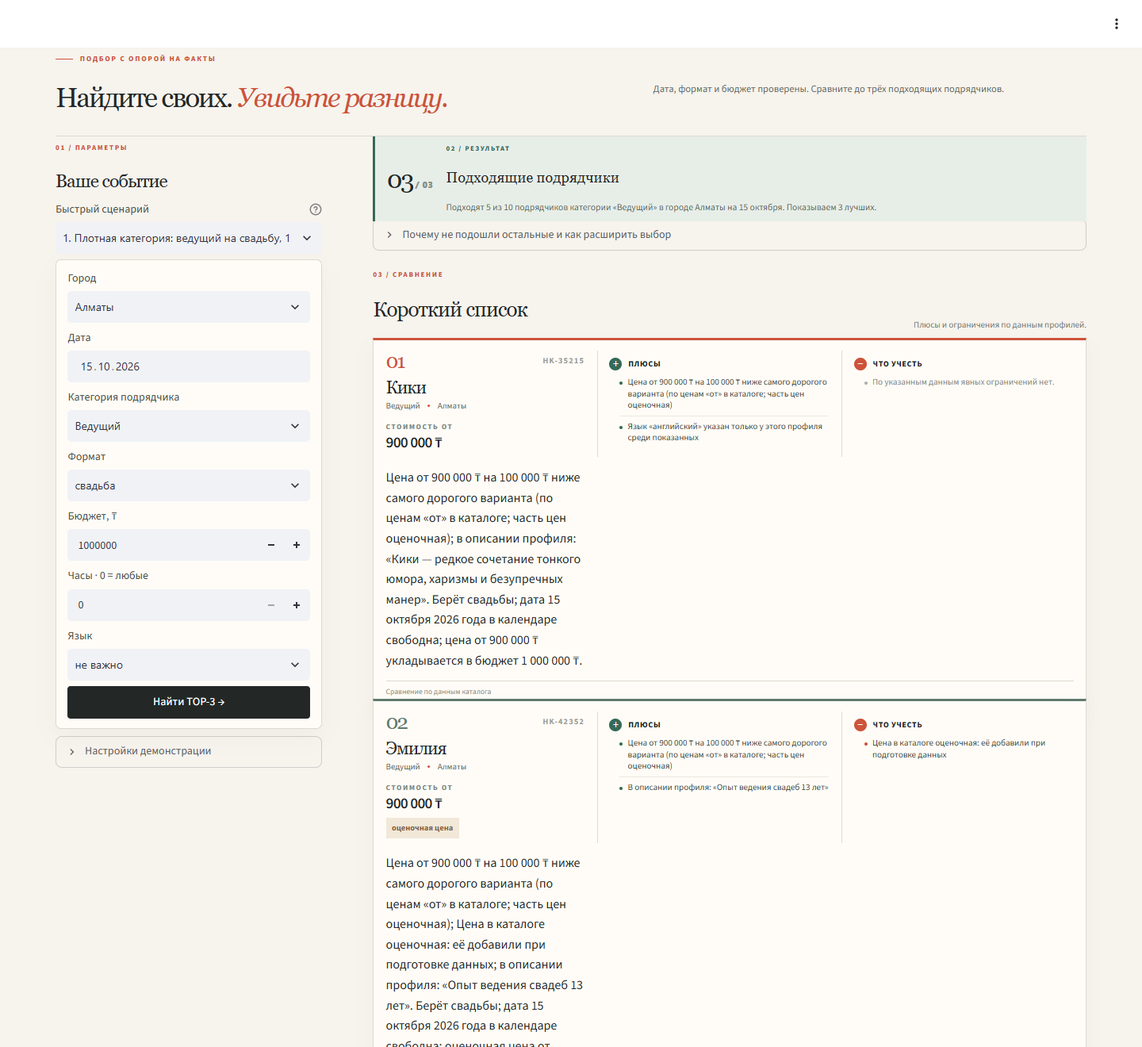
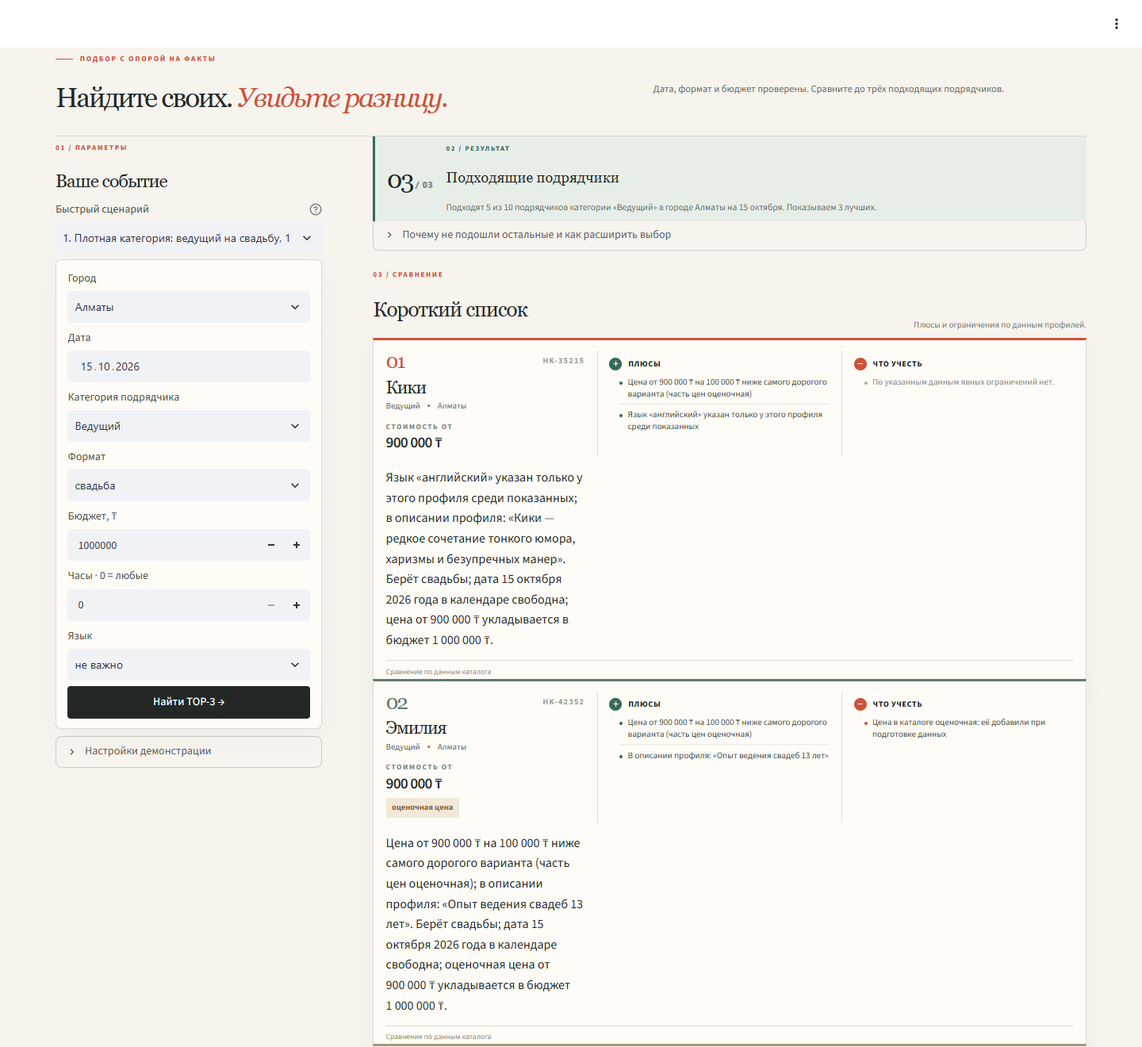
fix: distinguishable reasons on the whole catalog, safer LLM setup
- near-duplicate profiles (template descriptions) get a quote unique among
  the shown cards; reasons lead with the rarest advantage, limitations stay
  in the 'Что учесть' column; no capital letter after ';', no repeated format
- shorter price note; temperature=0 for the comparison call
- tests never reach the real API even with a key in the shell; new tests
  check distinguishability on the whole catalog (29 tests)
- key can live in git-ignored .streamlit/secrets.toml; README explains how
  to run with the model and how to see that it works

Changed region(s): [[0.3125, 0.4348, 0.9688, 1.0], [0.5312, 0.3727, 0.7188, 0.4348], [0.75, 0.6523, 0.9062, 0.7455]]

diff --git a/comparison.py b/comparison.py
@@ -7,10 +7,12 @@ import os
 from typing import Any, Callable
 from urllib.request import Request, urlopen
 
-from matching import _key, _money
+from matching import _key, _money, profile_excerpts
 
 ComparisonSelector = Callable[[dict[str, Any]], list[dict[str, Any]]]
 QUALITY_IDS = {"price_estimated", "city_imputed", "synthetic"}
+# Which advantage leads the reason: the rarest difference first.
+HIGHLIGHT_ORDER = ("language_", "price_lowest", "hours_longest", "price_lower", "profile")
 
 
 def _point(point_id: str, text: str) -> dict[str, str]:
@@ -32,13 +34,34 @@ def _quality_notes(card: dict[str, Any]) -> list[dict[str, str]]:
     return notes
 
 
+def _distinct_profiles(shown: list[dict[str, Any]]) -> list[dict[str, Any]]:
+    """Near-duplicate profiles (same template description) must not get the same quote.
+
+    If a card's quote repeats another card's, take the first sentence of its own
+    description that does not occur in the other shown descriptions.
+    """
+    quotes = [_fact(card, "profile") for card in shown]
+    result = []
+    for card, quote in zip(shown, quotes):
+        if quote and quotes.count(quote) > 1:
+            others = " ".join(" ".join(str(o.get("description", "")).split()) for o in shown if o is not card)
+            unique = next((q for q in profile_excerpts(str(card.get("description", ""))) if q not in others), None)
+            if unique:
+                card = {**card, "facts": [
+                    {**fact, "text": f"В описании профиля: «{unique}»"} if fact["id"] == "profile" else fact
+                    for fact in card["facts"]
+                ]}
+        result.append(card)
+    return result
+
+
 def _comparison(card: dict[str, Any], shown: list[dict[str, Any]]) -> dict[str, list[dict[str, str]]]:
     pros: list[dict[str, str]] = []
     cons: list[dict[str, str]] = []
     price = card["price_from_kzt"]
     prices = [other["price_from_kzt"] for other in shown]
     cheapest, most_expensive = min(prices), max(prices)
-    price_note = " (по ценам «от» в каталоге; часть цен оценочная)" if any(
+    price_note = " (часть цен оценочная)" if any(
         other.get("price_imputed") for other in shown
     ) else ""
 
@@ -130,6 +153,8 @@ def openai_compare(payload: dict[str, Any]) -> list[dict[str, Any]]:
         }},
         "max_output_tokens": 350,
     }
+    if body["model"].startswith(("gpt-4", "gpt-3")):
+        body["temperature"] = 0  # same request -> same choice; reasoning models reject this field
     request = Request(
         "https://api.openai.com/v1/responses",
         data=json.dumps(body, ensure_ascii=False).encode("utf-8"),
@@ -159,6 +184,7 @@ def add_comparative_facts(
         return {**response, "results": [{**card, "comparison": {"pros": pros, "cons": _quality_notes(card)},
                                           "comparison_source": "catalog"}]}
 
+    shown = _distinct_profiles(shown)
     options = {card["id"]: _comparison(card, shown) for card in shown}
     selected = {
         card_id: {
@@ -196,8 +222,13 @@ def add_comparative_facts(
     for card in shown:
         comparison = selected[card["id"]]
         facts = list(card["facts"])
-        highlighted = comparison["pros"][:1] + comparison["cons"][:1]
+        # The reason says why the card is here: its main advantage. Limitations stay in
+        # the "Что учесть" column. The format is already part of the shared checks.
+        pros = sorted((point for point in comparison["pros"] if point["id"] != "format"),
+                      key=lambda point: next((i for i, prefix in enumerate(HIGHLIGHT_ORDER)
+                                              if point["id"].startswith(prefix)), len(HIGHLIGHT_ORDER)))
+        highlighted = (pros or comparison["cons"])[:1]
         if highlighted:
-            facts.append(_point("compare", "; ".join(point["text"] for point in highlighted)))
+            facts.append(_point("compare", highlighted[0]["text"]))
         results.append({**card, "comparison": comparison, "comparison_source": source, "facts": facts})
     return {**response, "results": results}

diff --git a/test_integration.py b/test_integration.py
@@ -1,5 +1,6 @@
 """End-to-end checks of the Definition of Done on the real catalog. Run: python -m unittest"""
 
+import os
 import re
 import unittest
 from unittest.mock import patch
@@ -7,6 +8,9 @@ from unittest.mock import patch
 from demo_scenarios import SCENARIOS
 from matching import load_providers
 from service import run
+
+# Tests never call the real API, even when the shell has a key set.
+os.environ.pop("OPENAI_API_KEY", None)
 
 CATALOG = {row["id"]: row for row in load_providers()}
 GENERIC_PHRASES = ("отличный выбор", "идеально подойдёт", "лучший выбор", "для вашего мероприятия")
@@ -119,6 +123,32 @@ class DefinitionOfDoneTests(unittest.TestCase):
     def test_response_time(self):
         for scenario in SCENARIOS.values():
             self.assertLess(run(scenario["request"])["elapsed_ms"], 10_000)
+
+    def test_near_duplicate_profiles_get_different_quotes(self):
+        # Two live bands share price, formats and the first sentence of their descriptions.
+        request = {"city": "Алматы", "date": "2026-10-14", "event_format": "свадьба",
+                   "category": "Лайв-бэнд", "budget_kzt": 1_500_000}
+        cards = run(request)["results"]
+        quotes = [re.findall(r"«[^»]{24,}»", card["reason"]) for card in cards]
+        self.assertEqual(len({tuple(q) for q in quotes}), len(cards))
+
+    def test_every_answer_is_distinguishable_and_readable(self):
+        """DoD on the whole catalog, not only on demo requests."""
+        cities = sorted({row["city"] for row in CATALOG.values()})
+        categories = sorted({c for row in CATALOG.values() for c in row["categories"]})
+        dates = ["2026-09-26", "2026-10-14", "2026-11-14", "2026-12-06"]
+        for city in cities:
+            for category in categories:
+                for event_format in ("свадьба", "той", "корпоратив", "юбилей"):
+                    for day in dates:
+                        request = {"city": city, "date": day, "event_format": event_format,
+                                   "category": category, "budget_kzt": 10_000_000}
+                        cards = run(request)["results"]
+                        with self.subTest(**request):
+                            anonymous = [c["reason"].replace(c["name"], "___") for c in cards]
+                            self.assertEqual(len(set(anonymous)), len(anonymous))
+                            for reason in anonymous:
+                                self.assertIsNone(re.search(r"; [А-ЯЁ]", reason))
 
 
 if __name__ == "__main__":

diff --git a/matching.py b/matching.py
@@ -67,20 +67,29 @@ def _display_date(value: date) -> str:
     return f"{_display_day(value)} {value.year} года"
 
 
-def _profile_excerpt(description: str) -> str:
-    """Return a short exact quote from the profile, without inventing claims."""
+def profile_excerpts(description: str) -> list[str]:
+    """All short exact quotes from the profile, in reading order, without inventing claims."""
     clean = re.sub(r"\s+", " ", description).strip()
+    found: list[str] = []
     for part in re.split(r"(?<=[.!?])\s+", clean):
         part = part.strip(" •\"«»")
         if 24 <= len(part) <= 160:
-            return part.rstrip(".!?")
+            found.append(part.rstrip(".!?"))
     # Some catalog descriptions have no sentence punctuation at all ("…13 лет Вел свадьбы…"):
     # treat "lowercase/digit + space + Capitalized word" as a sentence boundary.
     for part in re.split(r"(?<=[а-яёa-z0-9])\s+(?=[А-ЯЁA-Z][а-яёa-z])", clean):
-        part = part.strip(" •\"«»-—")
-        if 24 <= len(part) <= 160:
-            return part.rstrip(".!?,;:")
-    return clean[:140].rsplit(" ", 1)[0].rstrip(".,;: ") if len(clean) >= 24 else ""
+        part = part.strip(" •\"«»-—").rstrip(".!?,;:")
+        if 24 <= len(part) <= 160 and not any(part in quote or quote in part for quote in found):
+            found.append(part)
+    if not found and len(clean) >= 24:
+        found.append(clean[:140].rsplit(" ", 1)[0].rstrip(".,;: "))
+    return found
+
+
+def _profile_excerpt(description: str) -> str:
+    """Return the first short exact quote from the profile."""
+    excerpts = profile_excerpts(description)
+    return excerpts[0] if excerpts else ""
 
 
 def load_providers(path: str | Path = DATA_PATH) -> list[dict[str, Any]]:

diff --git a/app.py b/app.py
@@ -197,11 +197,24 @@ def render_card(card: dict, debug: bool, rank: int) -> None:
                 st.markdown(f"{mark} {fact['text']}")
 
 
+def use_key_from_secrets() -> None:
+    """Allow the key in .streamlit/secrets.toml (git-ignored) instead of a shell variable."""
+    if os.getenv("OPENAI_API_KEY"):
+        return
+    try:
+        key = st.secrets.get("OPENAI_API_KEY", "")
+    except Exception:  # no secrets file: run without the model
+        return
+    if key:
+        os.environ["OPENAI_API_KEY"] = str(key)
+
+
 def main() -> None:
     st.set_page_config(
         page_title="ASA | подбор подрядчиков", page_icon="✦", layout="wide",
         initial_sidebar_state="collapsed",
     )
+    use_key_from_secrets()
     css = Path(__file__).with_name("styles.css").read_text(encoding="utf-8")
     st.markdown(f"<style>{css}</style>", unsafe_allow_html=True)
     st.markdown("""

diff --git a/test.py b/test.py
@@ -1,6 +1,7 @@
 """Behavior checks for matching and grounded explanations."""
 
 import json
+import os
 import tempfile
 import unittest
 from io import BytesIO
@@ -10,6 +11,9 @@ from unittest.mock import patch
 from comparison import add_comparative_facts, openai_compare
 from explanations import explain_response, generate_reason
 from matching import load_providers, recommend
+
+# Tests never call the real API, even when the shell has a key set.
+os.environ.pop("OPENAI_API_KEY", None)
 
 
 BASE = {

diff --git a/README.md b/README.md
@@ -2,7 +2,7 @@
 
 ![Python](https://img.shields.io/badge/Python-3.10%2B-3776AB?logo=python&logoColor=white)
 ![Streamlit](https://img.shields.io/badge/UI-Streamlit-FF4B4B?logo=streamlit&logoColor=white)
-![Tests](https://img.shields.io/badge/tests-27%20passed-2EA44F)
+![Tests](https://img.shields.io/badge/tests-29%20passed-2EA44F)
 ![HackAlem](https://img.shields.io/badge/HackAlem-%2379--lite-6F42C1)
 
 Заказчик уже выбрал тип мероприятия и получил каталог по своему городу. ASA помогает **выбрать из этого списка**, а не удлинить его: проверяет дату, формат и бюджет, оставляет до трёх подрядчиков и для каждого показывает **плюсы и ограничения по сравнению с остальными**. Если подходящих мало или нет совсем, сервис объясняет почему и подсказывает, что изменить в запросе.
@@ -41,7 +41,7 @@ python -m streamlit run app.py
 |---|---|
 | `python -m streamlit run app.py` | веб-интерфейс |
 | `python demo.py` | все демо-сценарии и имитация сбоя ИИ в терминале |
-| `python -m unittest` | 27 тестов: подбор, сравнение, объяснения и сквозные проверки DoD |
+| `python -m unittest` | 29 тестов: подбор, сравнение, объяснения и сквозные проверки DoD на всём каталоге |
 
 Ядро (`matching.py`, `comparison.py`, `explanations.py`, `service.py`) работает на стандартной библиотеке Python, без внешних зависимостей. Streamlit нужен только для интерфейса, оформление лежит в `styles.css`.
 
@@ -66,7 +66,7 @@ flowchart LR
 | **2. Фильтры** | `matching.py` | Кандидат исключается, если занят на дату, его цена «от» выше бюджета, он не берёт этот формат или работает на площадке меньше запрошенного. Для каждого отсеянного запоминается, какие именно условия он не прошёл: из этого строятся подсказки. |
 | **3. Ранжирование** | `matching.py` | Прошедшие фильтры получают баллы (таблица ниже). При равенстве сортировка идёт по `id`, поэтому одинаковый запрос всегда даёт одинаковый порядок. |
 | **4. Сравнение** | `comparison.py` | Для каждой карточки из данных каталога собираются плюсы и ограничения **относительно других карточек выдачи**. ИИ, если подключён, выбирает, какие из них показать. |
-| **5. Объяснение** | `explanations.py` | Короткий текст из тех же проверенных фактов: главное отличие, формат, свободная дата, цена в рамках бюджета, цитата из профиля. |
+| **5. Объяснение** | `explanations.py` | Два предложения из тех же проверенных фактов. Первое — главный плюс карточки и цитата из профиля, второе — общие проверки: формат, свободная дата, цена в рамках бюджета. |
 
 ### Как считаются баллы
 
@@ -87,7 +87,7 @@ flowchart LR
 
 | Пункт | Тип | Пример | Откуда |
 |---|:---:|---|---|
-| Самая низкая цена | плюс | «Самая низкая цена среди показанных: от 400 000 ₸» | `price_from_kzt` всех карточек |
+| Самая низкая цена | плюс | «Самая низкая цена среди показанных: от 400 000 ₸ (часть цен оценочная)» | `price_from_kzt` всех карточек |
 | Цена ниже самой дорогой | плюс | «Цена от 900 000 ₸ на 100 000 ₸ ниже самого дорогого варианта» | `price_from_kzt` |
 | Цена выше минимальной | ограничение | «Цена от 1 000 000 ₸ на 100 000 ₸ выше минимальной среди показанных» | `price_from_kzt` |
 | Уникальный язык | плюс | «Язык «английский» указан только у этого профиля среди показанных» | `languages` |
@@ -95,6 +95,10 @@ flowchart LR
 | Лимит меньше максимума | ограничение | «Лимит 10 ч на 2 ч меньше максимума среди показанных с лимитом» | `max_hours` |
 | Цитата из профиля | плюс | «В описании профиля: «…более 1000 реализованных съёмок»» | `description`, дословно |
 | Качество данных | ограничение | «Цена в каталоге оценочная», «Профиль создан для демонстрации» | `price_imputed`, `city_imputed`, `synthetic` |
+
+Первым в объяснение попадает самый редкий плюс: уникальный язык → самая низкая цена → самый длинный лимит часов → цена ниже самой дорогой → цитата. Ограничения остаются в колонке «Что учесть».
+
+Если у двух подрядчиков описания начинаются одинаково (в каталоге есть почти одинаковые лайв-бэнды), для каждого берётся первая фраза описания, которой нет у другого. Так объяснения не совпадают даже у «клонов».
 
 Пометки о качестве данных показываются всегда: ИИ не может их скрыть. Если в выдаче одна карточка, сравнивать не с кем, и в плюсах показываются подтверждённые проверки: формат, свободная дата, бюджет.
 
@@ -151,14 +155,26 @@ flowchart LR
 | Таймаут (6 с), ошибка API, битый JSON, неизвестный `id`, пропущенная карточка | та же выдача с локальным сравнением, поиск не ломается | «Сравнение по данным каталога» |
 | В выдаче одна карточка | ИИ не вызывается, сравнивать не с кем | «Единственный подходящий вариант» |
 
-Подключение:
+### Как запустить с ИИ
+
+**Вариант 1 — на один запуск.** В том же окне PowerShell, где будете запускать приложение:
 
 ```powershell
-$env:OPENAI_API_KEY = "ваш_ключ"
+$env:OPENAI_API_KEY = "sk-..."
 python -m streamlit run app.py
 ```
 
-Модель задаётся через `OPENAI_MODEL` (по умолчанию `gpt-4o-mini`), используется OpenAI Responses API со строгой JSON-схемой. Ключ хранится только в переменной окружения, в коде и репозитории его нет.
+**Вариант 2 — один раз для этой папки.** Создайте файл `.streamlit/secrets.toml`:
+
+```toml
+OPENAI_API_KEY = "sk-..."
+```
+
+Файл указан в `.gitignore` и не попадёт в репозиторий. Приложение подхватит ключ при запуске.
+
+**Как понять, что ИИ работает:** в раскрывающемся блоке «Настройки демонстрации» написано «ИИ сравнит варианты одним запросом», а под карточками — «ИИ сравнил варианты · по проверенным фактам». В терминале: `python demo.py` выводит у карточек `сравнение: llm`.
+
+Модель задаётся через `OPENAI_MODEL` (по умолчанию `gpt-4o-mini`). Используется OpenAI Responses API со строгой JSON-схемой и `temperature=0`, чтобы одинаковый запрос давал одинаковый выбор. Тесты никогда не обращаются к настоящему API, даже если ключ задан в терминале.
 
 ## Проверка Definition of Done
 
@@ -176,6 +192,8 @@ python -m streamlit run app.py
 | Сбой ИИ не ломает выдачу | `test_llm_outage_falls_back_without_losing_reasons`, `test_valid_model_selection_and_invalid_fallback` |
 | Цитаты взяты из профиля дословно | `test_reason_quotes_come_from_profile` |
 | Некорректный запрос и пустой каталог | `test_request_validation`, `test_empty_csv_and_missing_fields` |
+| Все ответы на всём каталоге различимы и читаемы | `test_every_answer_is_distinguishable_and_readable`: все города × категории × 4 формата × 4 даты |
+| Почти одинаковые профили получают разные цитаты | `test_near_duplicate_profiles_get_different_quotes` |
 
 ## Структура проекта
 
@@ -240,7 +258,7 @@ response = run({
       "score_parts": {"specialization": 10, "description": 10, "language": 0, "duration": 0},
       "comparison": {
         "pros": [
-          {"id": "price_lowest", "text": "Самая низкая цена среди показанных: от 400 000 ₸ (по ценам «от» в каталоге; часть цен оценочная)"},
+          {"id": "price_lowest", "text": "Самая низкая цена среди показанных: от 400 000 ₸ (часть цен оценочная)"},
           {"id": "profile", "text": "В описании профиля: «Тохру — ивент-фотограф с более чем 10-летним опытом и более 1000 реализованных съёмок»"}
         ],
         "cons": [
@@ -249,7 +267,7 @@ response = run({
         ]
       },
       "comparison_source": "fallback",
-      "reason": "Самая низкая цена среди показанных: от 400 000 ₸ …; в описании профиля: «…». Берёт корпоративы; дата 15 октября 2026 года в календаре свободна; оценочная цена от 400 000 ₸ укладывается в бюджет 600 000 ₸.",
+      "reason": "Самая низкая цена среди показанных: от 400 000 ₸ (часть цен оценочная); в описании профиля: «Тохру — ивент-фотограф с более чем 10-летним опытом и более 1000 реализованных съёмок». Берёт корпоративы; дата 15 октября 2026 года в календаре свободна; оценочная цена от 400 000 ₸ укладывается в бюджет 600 000 ₸.",
       "reason_source": "fallback"
     }
   ]
